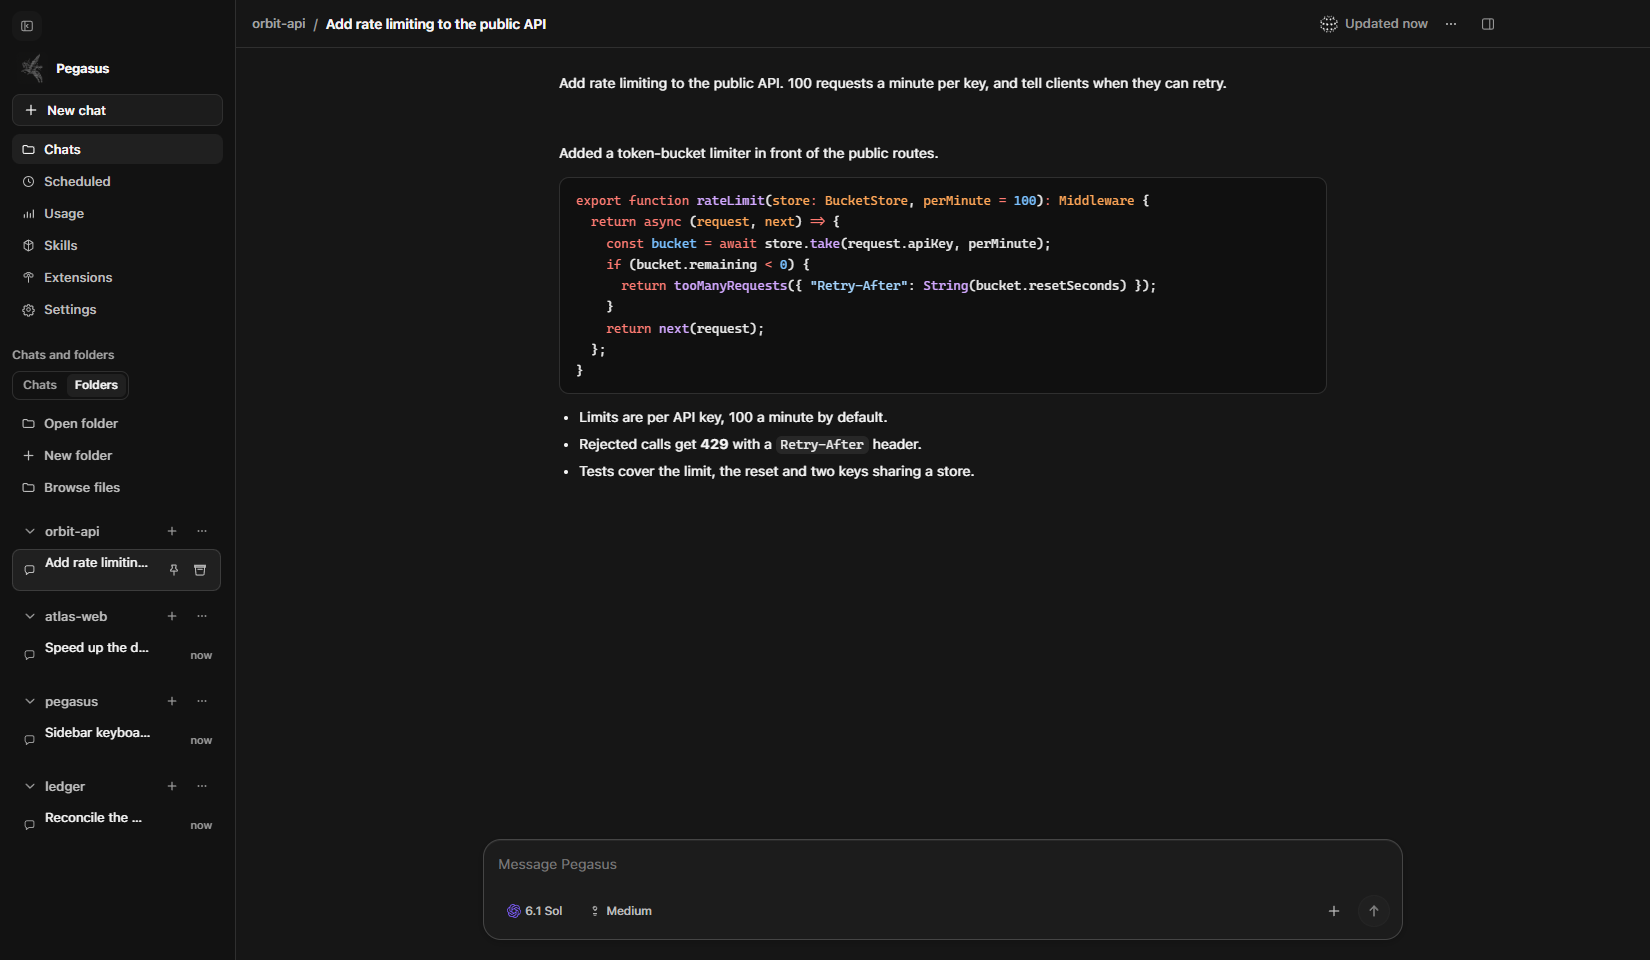
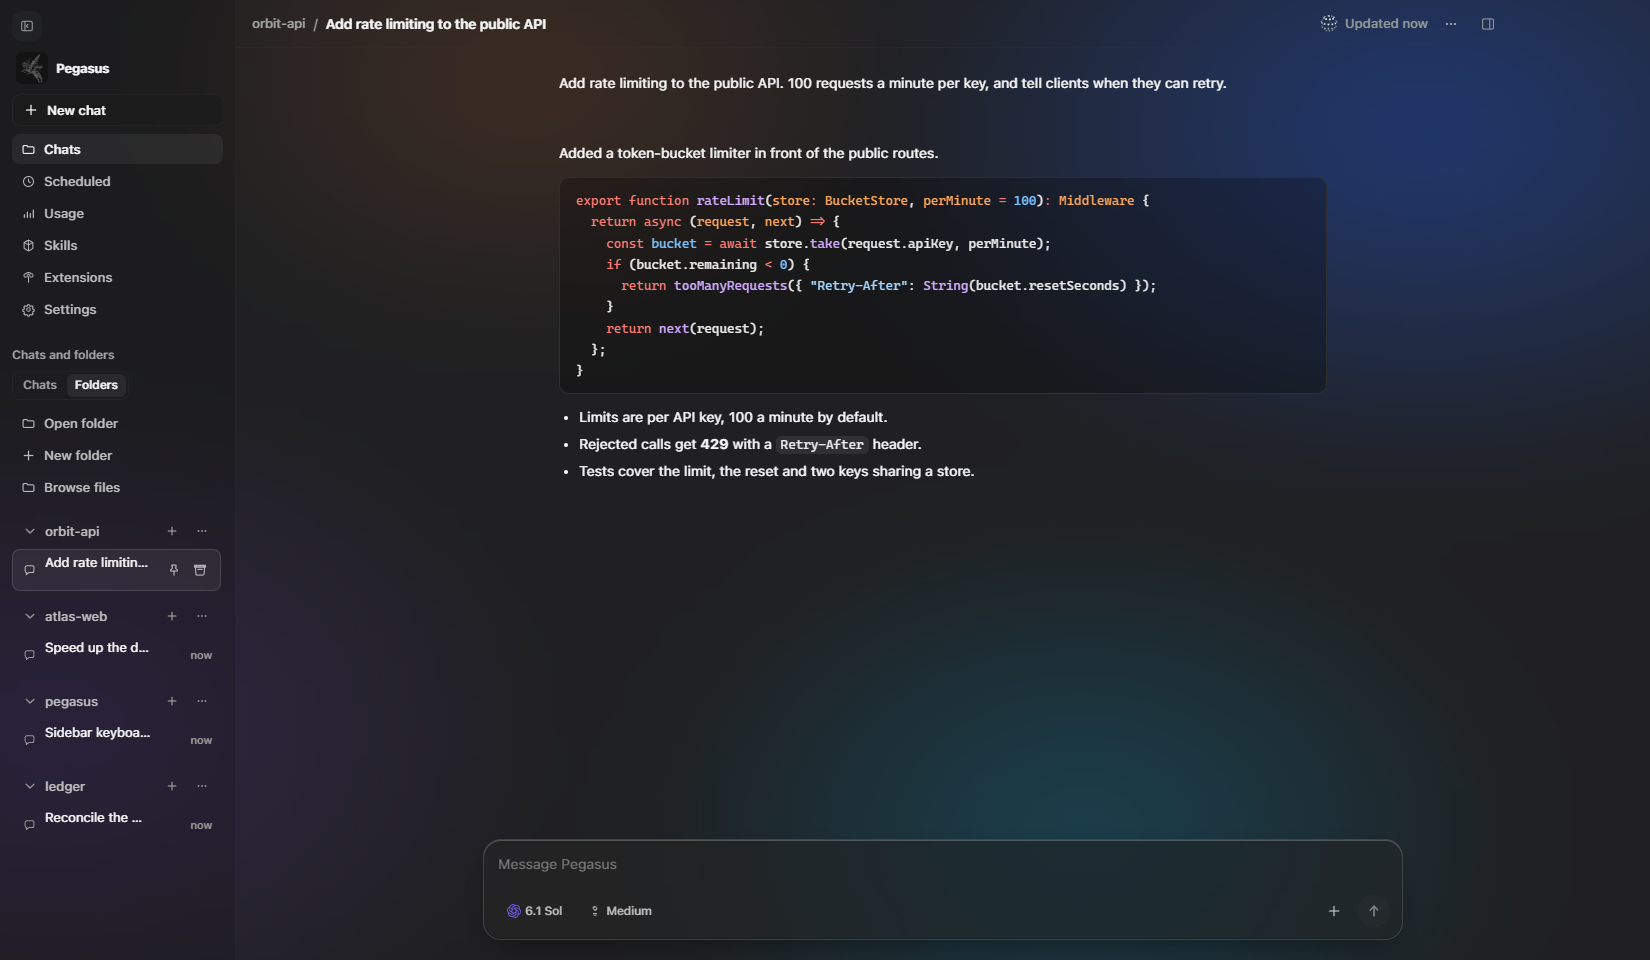
README screenshots with the glass look
The shots now run with transparency on and paint a blurred desktop behind the window, since a page
screenshot cannot capture the OS acrylic: colour shows through the sidebar and chat as it does when
Pegasus is in the foreground.

diff --git a/apps/desktop/tests/demo/readme-shots.spec.ts b/apps/desktop/tests/demo/readme-shots.spec.ts
@@ -37,7 +37,11 @@ test("captures README screenshots from a clean profile", async () => {
   try {
     const window = await harness.firstWindow();
     for (const path of folders) await waitForWorkspaceByPath(window, path);
-    await window.evaluate(() => globalThis.window.piApp?.setEnableTransparency(false));
+    await window.evaluate(() => globalThis.window.piApp?.setEnableTransparency(true));
+    await expect
+      .poll(() => window.evaluate(() => document.documentElement.classList.contains("enable-transparency")))
+      .toBe(true);
+    await paintDesktopBehindGlass(window);
     await resize(harness, 1650, 960);
 
     for (const chat of CHATS) {
@@ -79,6 +83,30 @@ test("captures README screenshots from a clean profile", async () => {
     await harness.close();
   }
 });
+
+// A page screenshot cannot see the OS acrylic, so the desktop behind the window is painted in the
+// page instead: a few soft colour fields, blurred and darkened the way Windows acrylic shows them.
+async function paintDesktopBehindGlass(window: Page): Promise<void> {
+  await window.addStyleTag({
+    content: `
+      html { background: #202124; }
+      body::before {
+        content: "";
+        position: fixed;
+        inset: -15%;
+        z-index: -1;
+        pointer-events: none;
+        background:
+          radial-gradient(38% 42% at 78% 22%, rgb(56 104 214 / 0.85), transparent 70%),
+          radial-gradient(30% 36% at 62% 78%, rgb(40 150 190 / 0.6), transparent 70%),
+          radial-gradient(34% 40% at 14% 70%, rgb(120 80 200 / 0.45), transparent 70%),
+          radial-gradient(26% 30% at 36% 18%, rgb(210 120 70 / 0.35), transparent 70%),
+          #2a2b2e;
+        filter: blur(48px) saturate(120%);
+      }
+    `,
+  });
+}
 
 async function resize(harness: DesktopHarness, width: number, height: number): Promise<void> {
   await harness.electronApp.evaluate(
